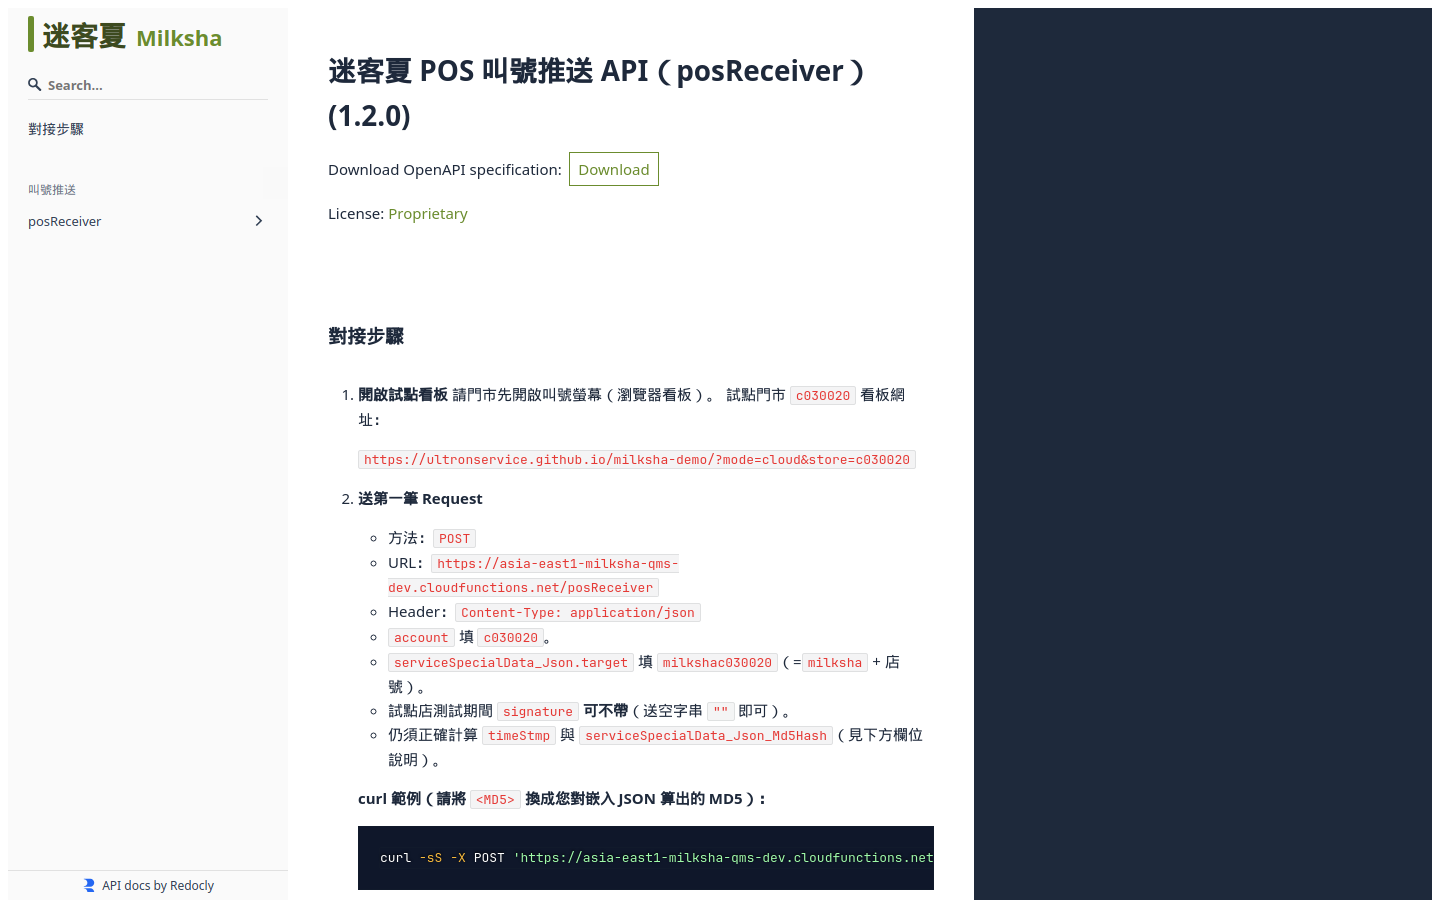
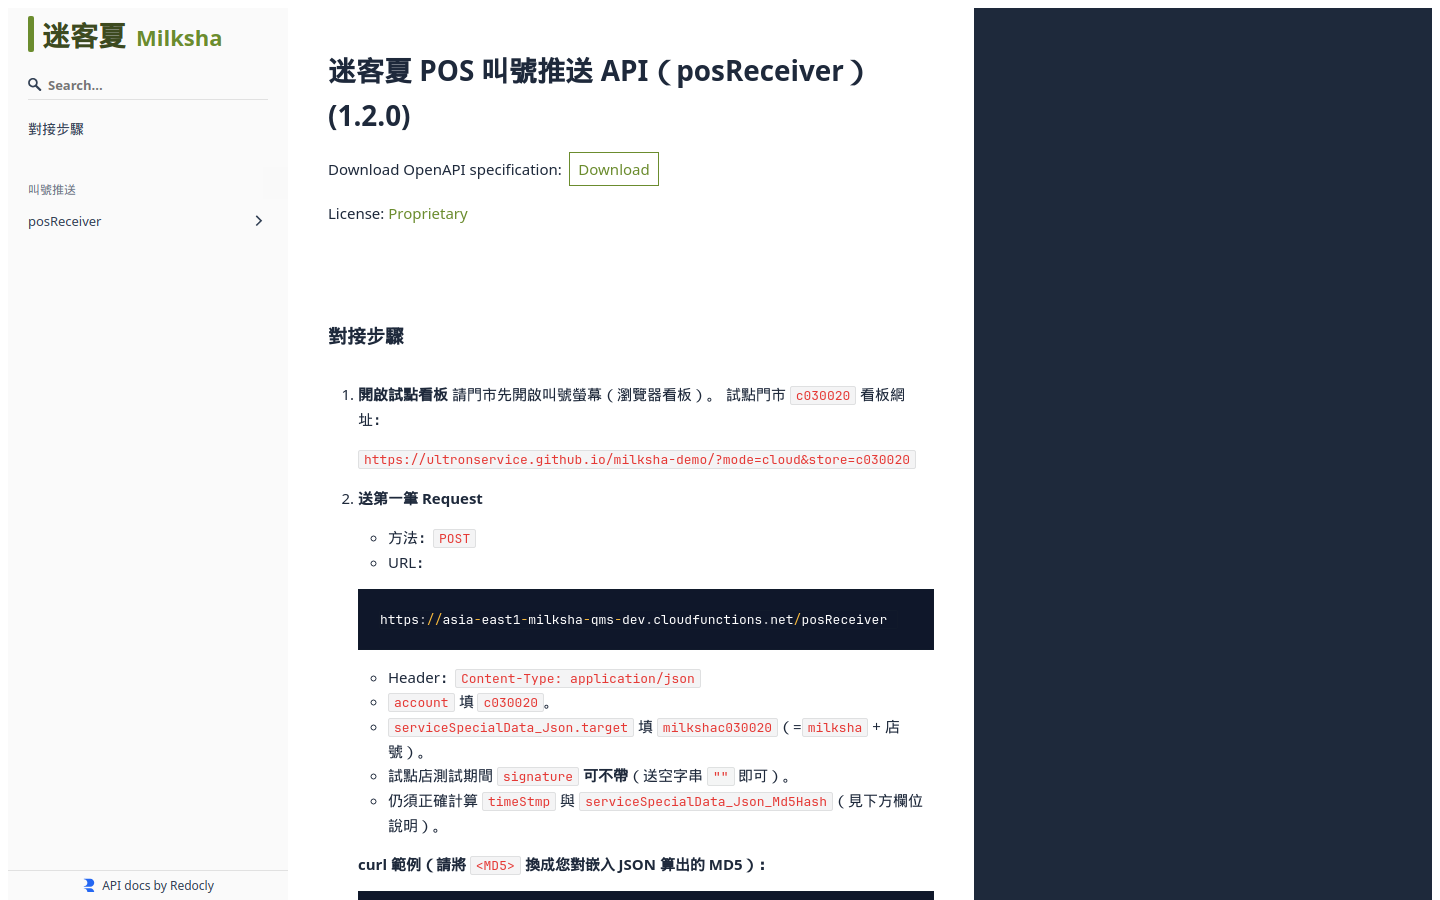
fix(docs/api): step 2 URL as scrollable code block in intro
Replace inline URL with fenced block; scope intro inline-code nowrap to api-info.

Changed region(s): [[0.25, 0.6222, 0.6562, 1.0]]

diff --git a/docs/api/redoc-overrides.css b/docs/api/redoc-overrides.css
@@ -68,17 +68,37 @@
   min-width: max-content;
 }
 
-.redoc-wrap .api-info p,
-.redoc-wrap .api-info li {
-  overflow-x: auto;
+.redoc-wrap .api-info li code {
+  white-space: nowrap;
+  word-break: normal;
+  overflow-wrap: normal;
 }
 
-.redoc-wrap .api-info p code,
-.redoc-wrap .api-info li code,
 .redoc-wrap .api-info td code {
   white-space: pre !important;
   word-break: normal !important;
   overflow-wrap: normal !important;
+}
+
+/* Intro markdown only: inline code stays on one line (short tokens) */
+.redoc-wrap .api-info p > code:only-child,
+.redoc-wrap .api-info li p > code:only-child,
+.redoc-wrap .api-info .redoc-markdown p > code:only-child,
+.redoc-wrap .api-info .redoc-markdown li p > code:only-child {
+  display: block !important;
+  box-sizing: border-box;
+  width: 100%;
+  max-width: 100%;
+  overflow-x: auto;
+  white-space: nowrap !important;
+  word-break: normal !important;
+  overflow-wrap: normal !important;
+  -webkit-overflow-scrolling: touch;
+}
+
+/* info.description renders in api-info on Redoc 2.x */
+.redoc-wrap .api-info pre code {
+  white-space: pre !important;
 }
 
 /* Schema tables: wrap descriptions inside the middle column */
